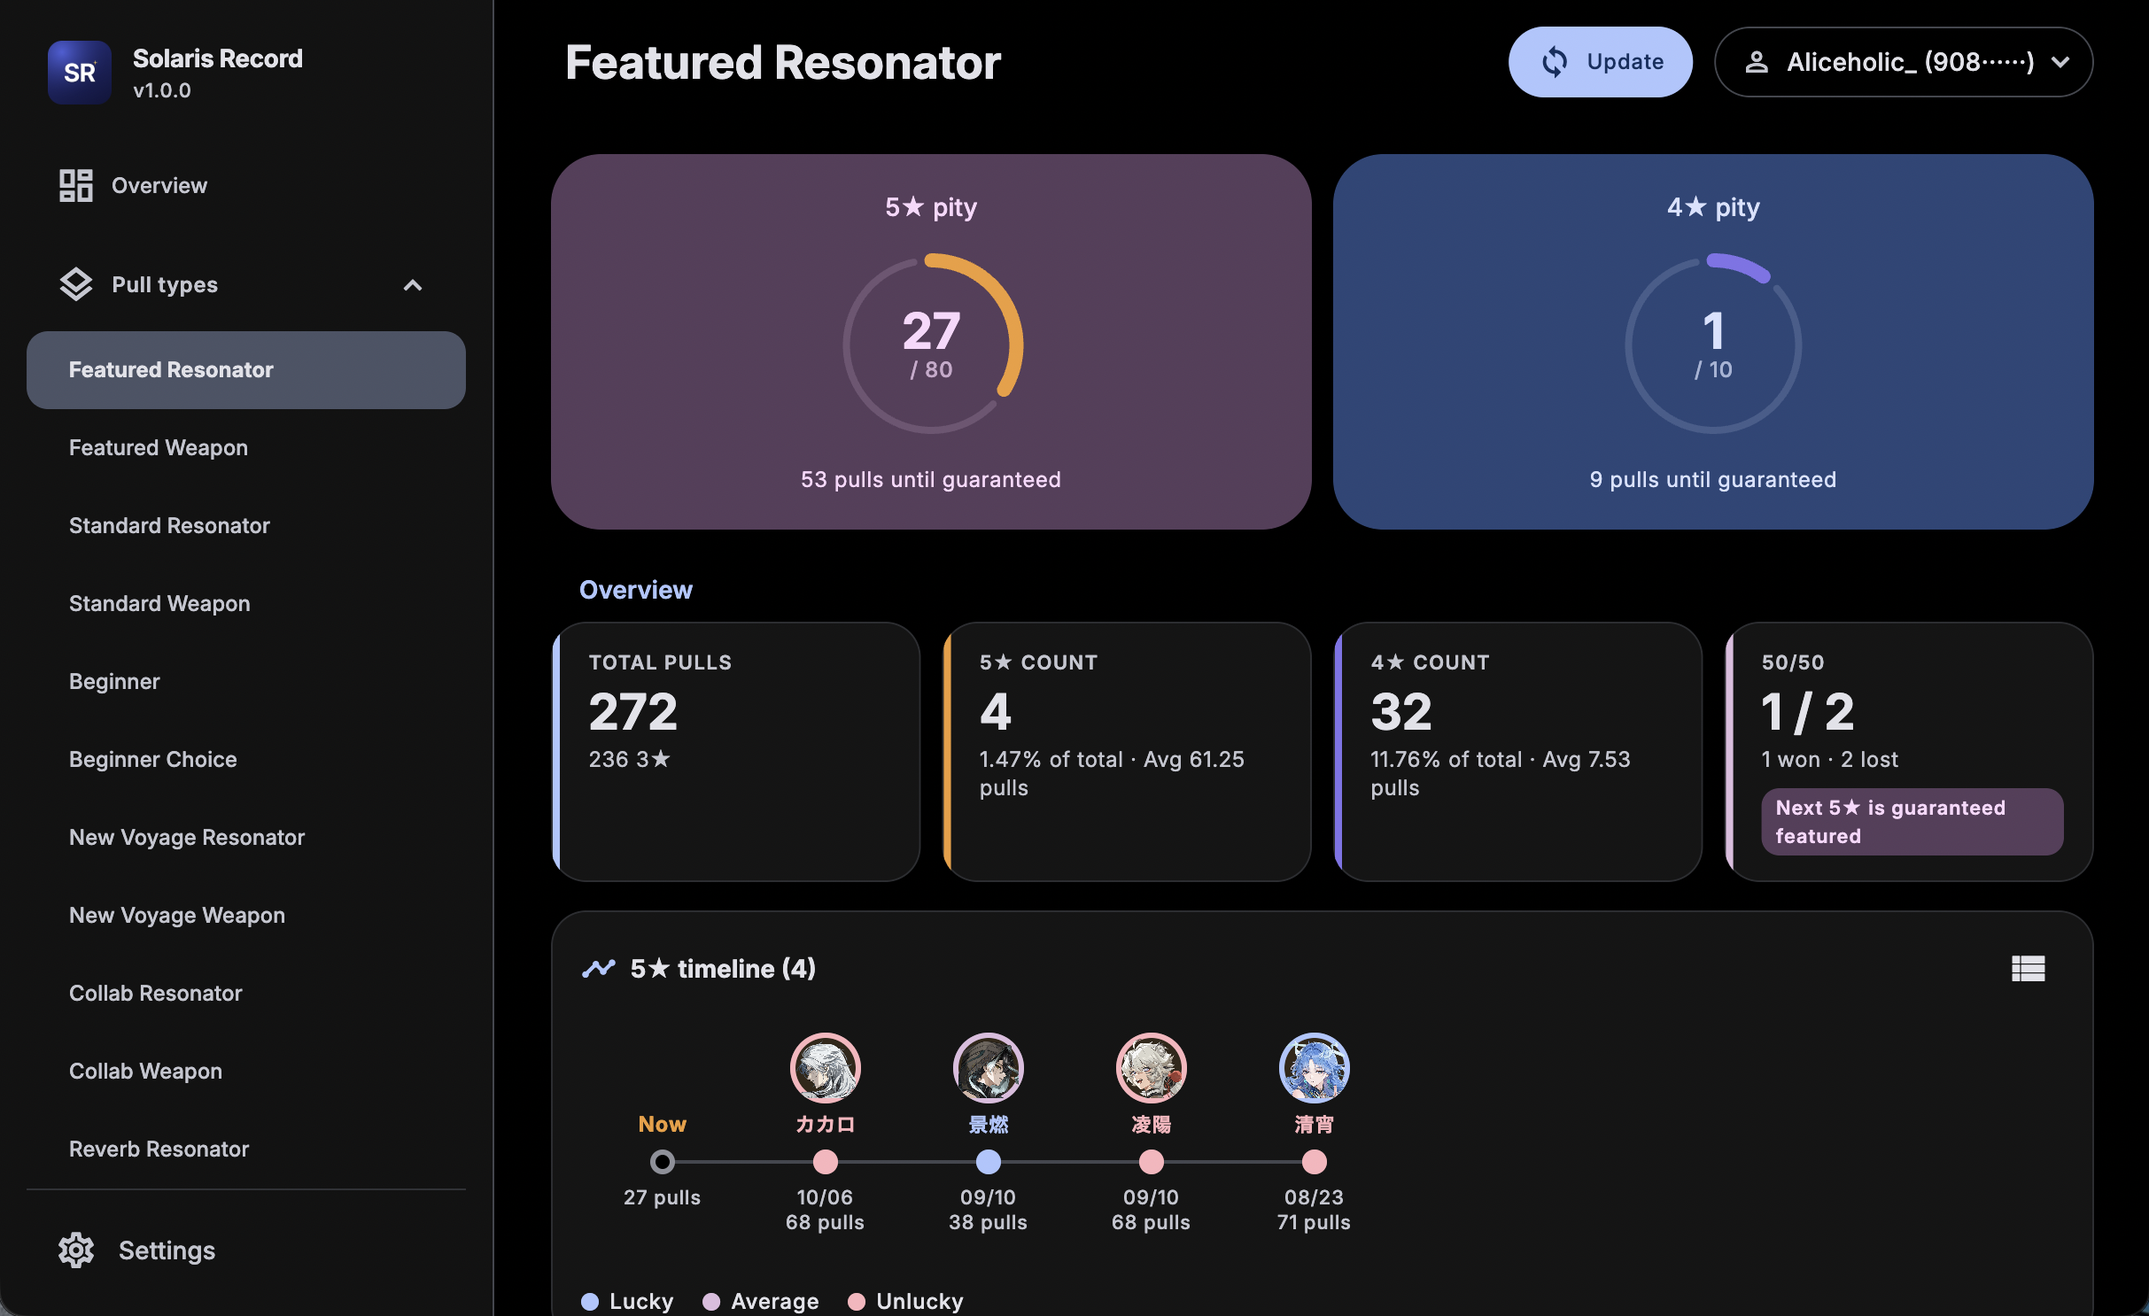
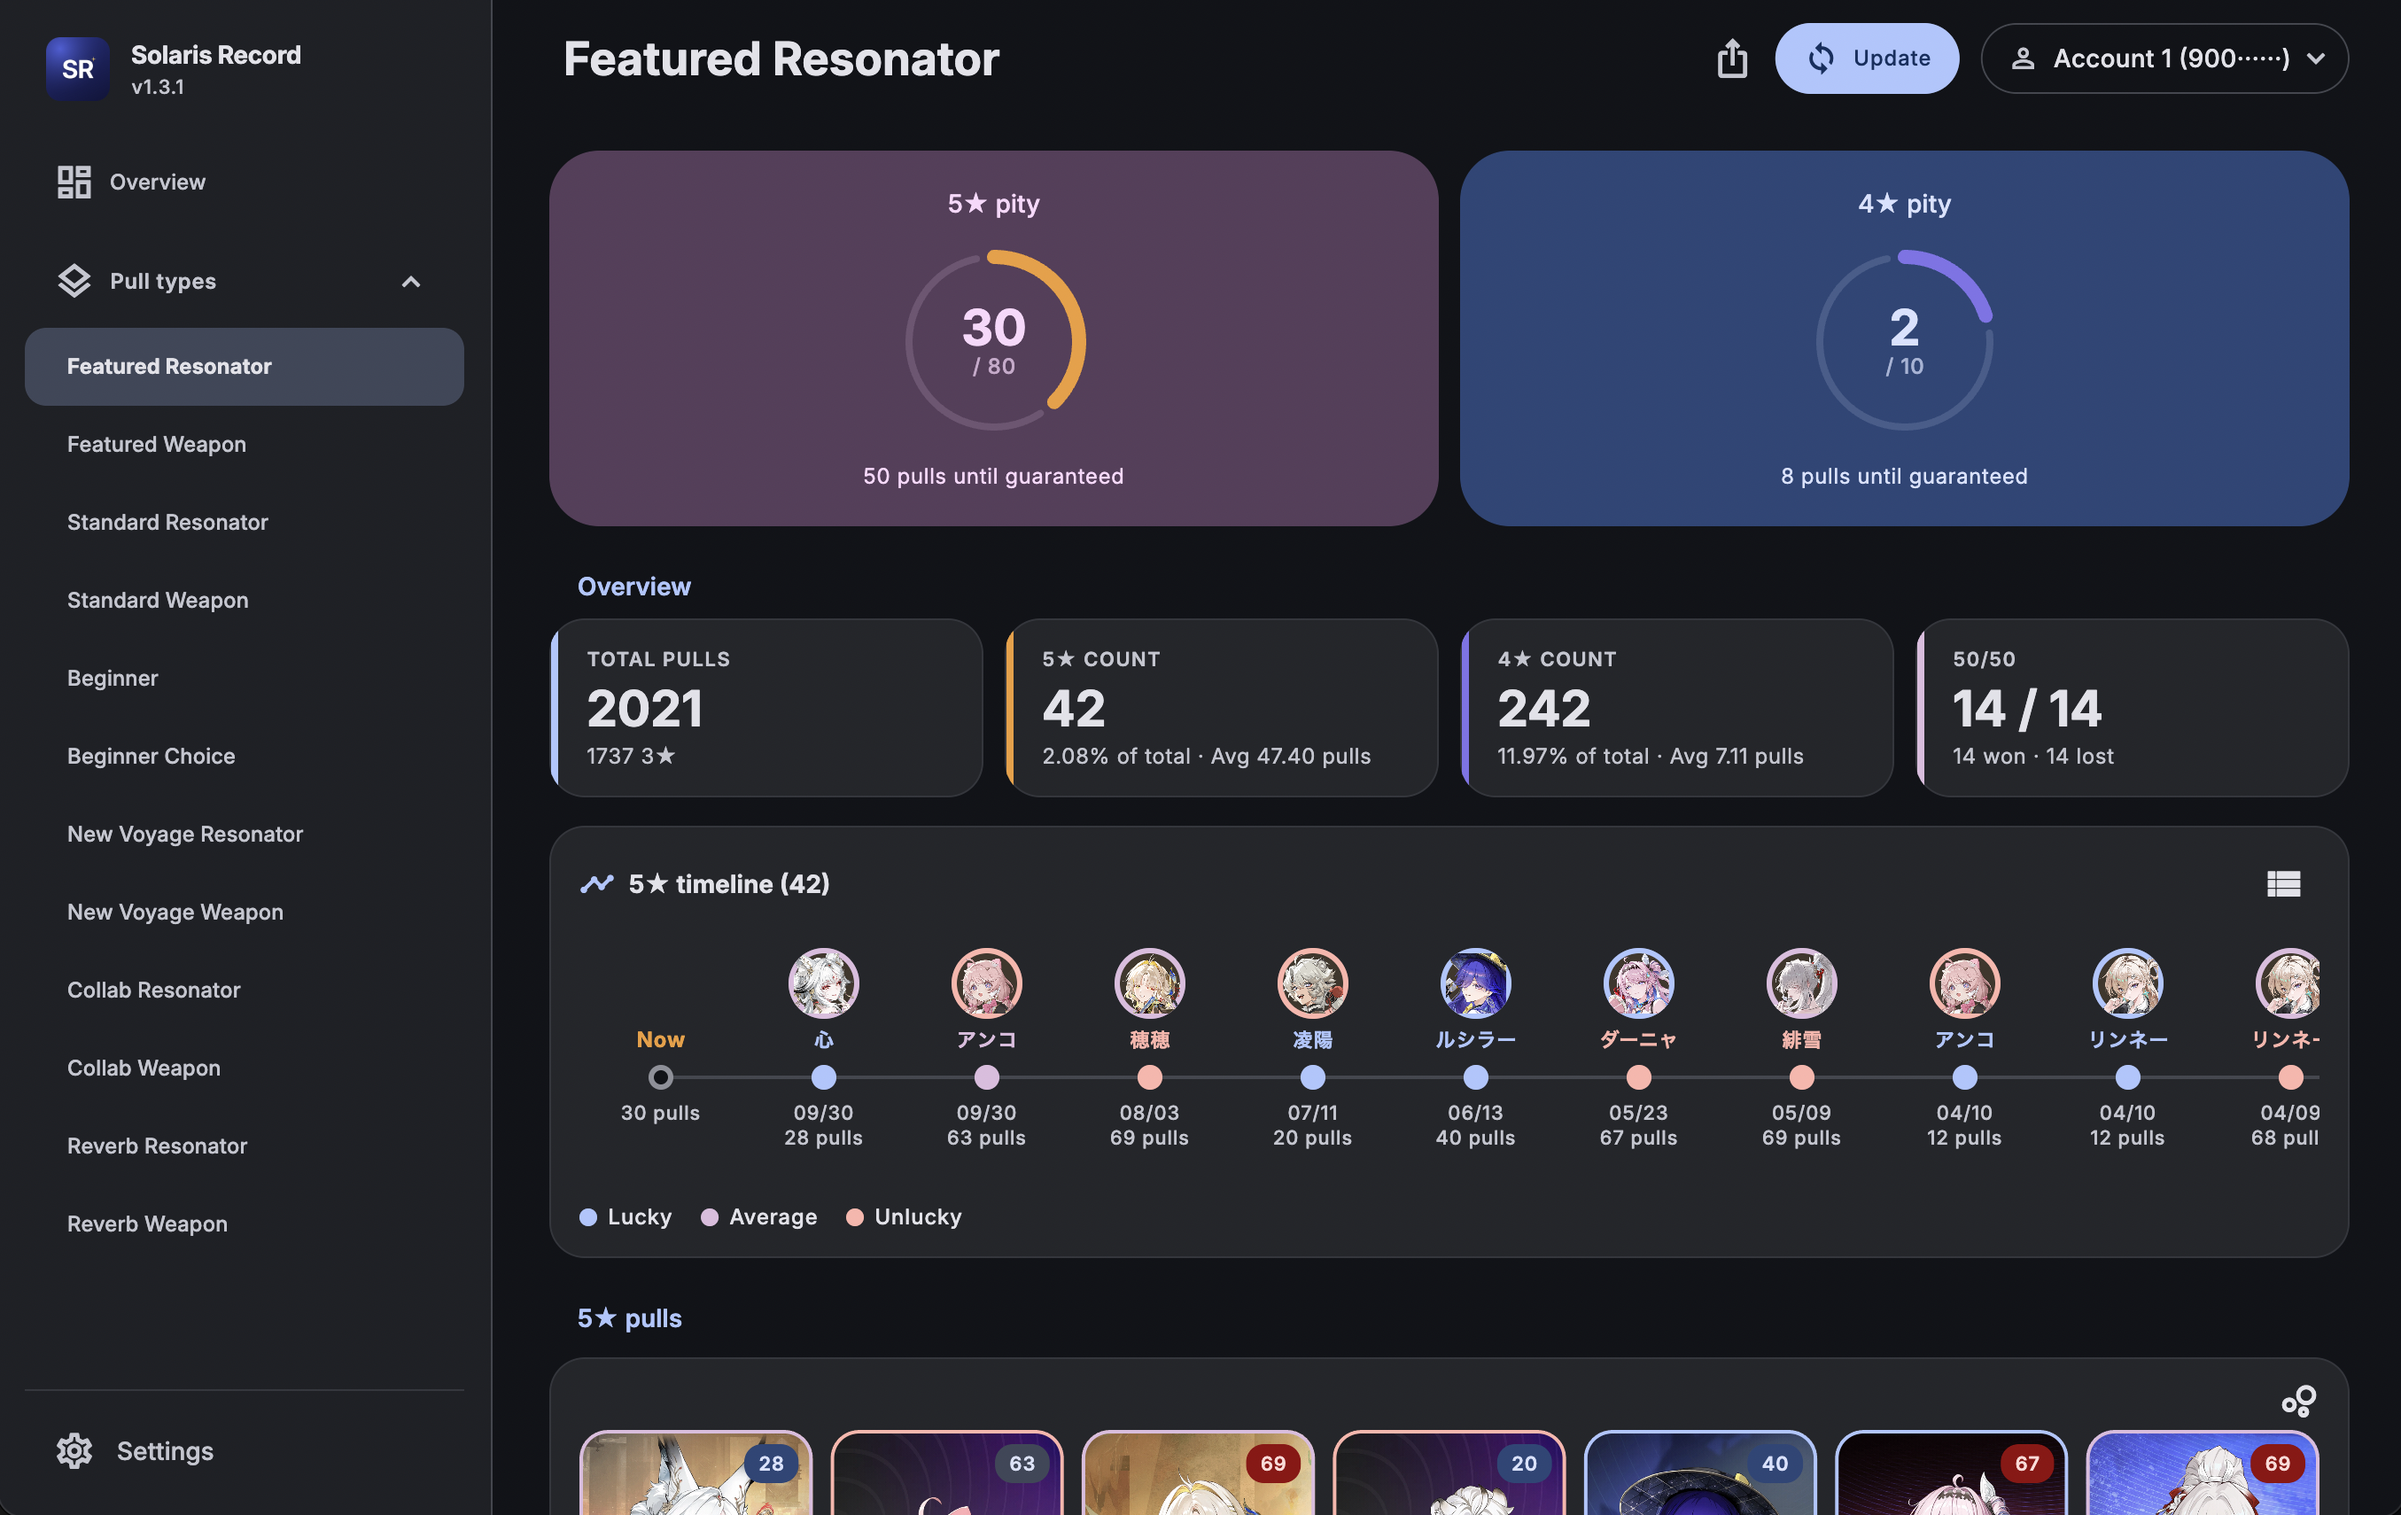
docs: refresh desktop screenshots
Add the share image screenshot and move settings to the end.

diff --git a/README.md b/README.md
@@ -11,15 +11,19 @@ Open-source, cross-platform convene (gacha) tracker for Wuthering Waves. Track p
 <table>
   <tr>
     <td width="50%"><img src="docs/images/desktop/1.png" alt="Overview of every pull type"><br><sub><b>Overview</b>: totals, rarity and type charts, 5★ per pull type.</sub></td>
-    <td width="50%"><img src="docs/images/desktop/2.png" alt="Featured Resonator pity, 50/50 and 5★ timeline"><br><sub><b>Featured Resonator</b>: pity, 50/50 record and the 5★ timeline.</sub></td>
+    <td width="50%"><img src="docs/images/desktop/2.png" alt="Featured Resonator pity and 50/50"><br><sub><b>Featured Resonator</b>: pity and 50/50 record.</sub></td>
   </tr>
   <tr>
-    <td width="50%"><img src="docs/images/desktop/3.png" alt="Featured Weapon pity and 5★ timeline"><br><sub><b>Featured Weapon</b>: pity and timeline, colored by luck.</sub></td>
+    <td width="50%"><img src="docs/images/desktop/3.png" alt="Featured Resonator 5★ timeline and history"><br><sub><b>Resonator timeline</b>: 5★ timeline, 5★ pulls and history.</sub></td>
     <td width="50%"><img src="docs/images/desktop/4.png" alt="Item info dialog with the image gallery"><br><sub><b>Item info</b>: details and an icon, outfit and convene art gallery.</sub></td>
   </tr>
   <tr>
-    <td width="50%"><img src="docs/images/desktop/5.png" alt="Settings"><br><sub><b>Settings</b>: import, accounts, appearance, data and about.</sub></td>
-    <td width="50%"></td>
+    <td width="50%"><img src="docs/images/desktop/5.png" alt="Featured Weapon pity and stats"><br><sub><b>Featured Weapon</b>: pity and stats.</sub></td>
+    <td width="50%"><img src="docs/images/desktop/6.png" alt="Featured Weapon 5★ timeline and history"><br><sub><b>Weapon timeline</b>: timeline colored by luck, 5★ pulls and history.</sub></td>
+  </tr>
+  <tr>
+    <td width="50%"><img src="docs/images/desktop/7.png" alt="Share as an image"><br><sub><b>Share image</b>: a picture of the overview or one pull type, dark or light.</sub></td>
+    <td width="50%"><img src="docs/images/desktop/8.png" alt="Settings"><br><sub><b>Settings</b>: import, accounts, appearance, data and about.</sub></td>
   </tr>
 </table>
 
